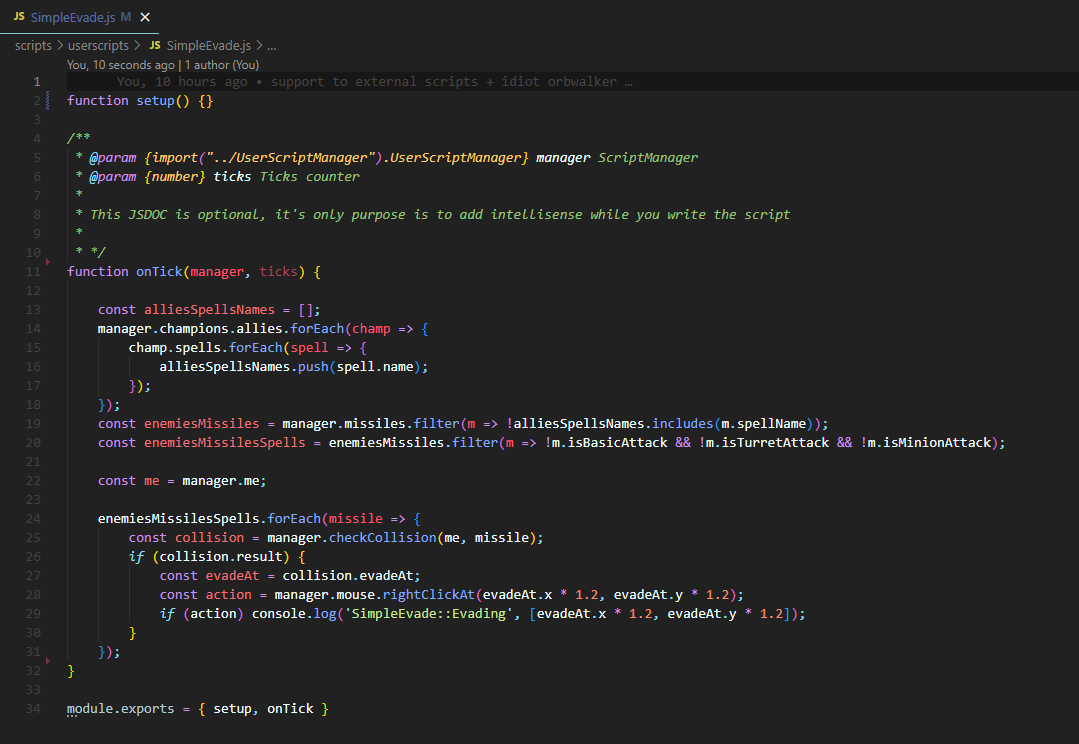
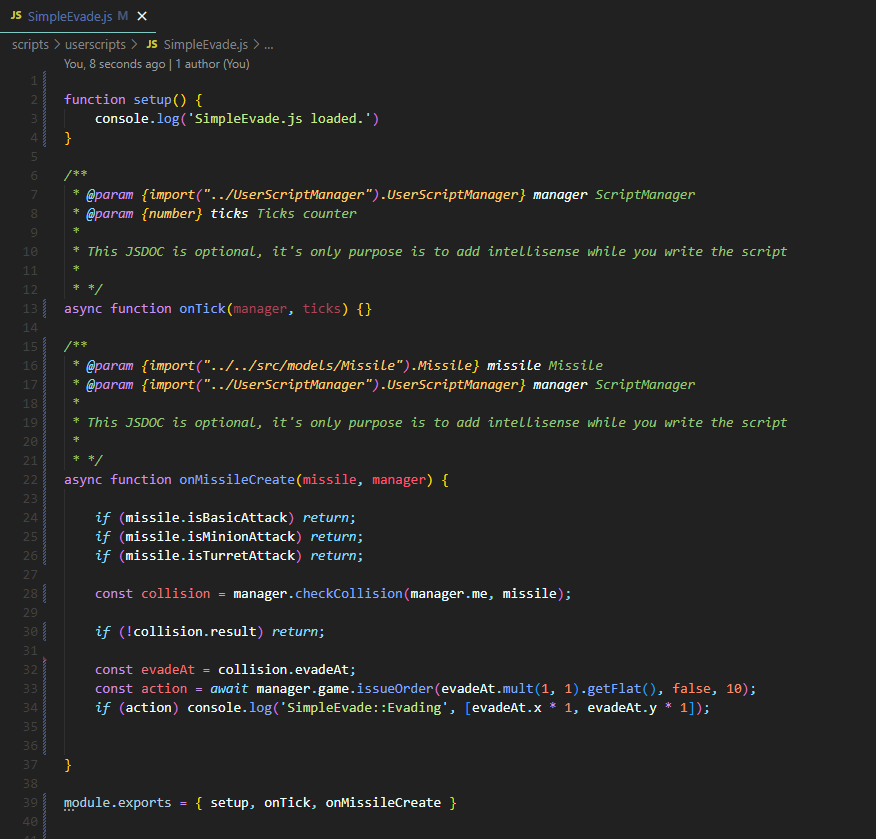
add aiManager, onMissileCreate + update readme

diff --git a/scripts/userscripts/SimpleEvade.js b/scripts/userscripts/SimpleEvade.js
@@ -1,4 +1,7 @@
-function setup() { }
+
+function setup() {
+    console.log('SimpleEvade.js loaded.')
+}
 
 /** 
  * @param {import("../UserScriptManager").UserScriptManager} manager ScriptManager
@@ -7,29 +10,34 @@ function setup() { }
  * This JSDOC is optional, it's only purpose is to add intellisense while you write the script
  * 
  * */
-async function onTick(manager, ticks) {
+async function onTick(manager, ticks) {}
 
-    const alliesSpellsNames = [];
-    manager.champions.allies.forEach(champ => {
-        champ.spells.forEach(spell => {
-            alliesSpellsNames.push(spell.name);
-        });
-    });
-    const enemiesMissiles = manager.missiles.filter(m => !alliesSpellsNames.includes(m.spellName));
-    const enemiesMissilesSpells = enemiesMissiles.filter(m => !m.isBasicAttack && !m.isTurretAttack && !m.isMinionAttack);
+/** 
+ * @param {import("../../src/models/Missile").Missile} missile Missile
+ * @param {import("../UserScriptManager").UserScriptManager} manager ScriptManager
+ * 
+ * This JSDOC is optional, it's only purpose is to add intellisense while you write the script
+ * 
+ * */
+async function onMissileCreate(missile, manager) {
 
-    const me = manager.me;
+    if (missile.isBasicAttack) return;
+    if (missile.isMinionAttack) return;
+    if (missile.isTurretAttack) return;
 
-    const testMissiles = manager.missiles.filter(m => !m.isBasicAttack && !m.isTurretAttack && !m.isMinionAttack);
+    const collision = manager.checkCollision(manager.me, missile);
 
-    testMissiles.forEach(async missile => {
-        const collision = manager.checkCollision(me, missile);
-        if (collision.result) {
-            const evadeAt = collision.evadeAt;
-            const action = await manager.game.issueOrder(evadeAt.mult(1, 1).getFlat(), false, 10);
-            if (action) console.log('SimpleEvade::Evading', [evadeAt.x * 1, evadeAt.y * 1]);
-        }
-    });
+    if (!collision.result) return;
+
+    const evadeAt = collision.evadeAt;
+    const action = await manager.game.issueOrder(evadeAt.mult(1, 1).getFlat(), false, 10);
+    if (action) console.log('SimpleEvade::Evading', [evadeAt.x * 1, evadeAt.y * 1]);
+
+
 }
 
-module.exports = { setup, onTick }
+module.exports = { setup, onTick, onMissileCreate }
+
+
+
+

diff --git a/src/index.ts b/src/index.ts
@@ -14,6 +14,7 @@ import ActionControllerWrapper from './ActionControllerWrapper';
 import * as path from 'path';
 import * as fs from 'fs';
 import * as child from 'child_process';
+import { Missile } from './models/Missile';
 
 if (process.argv[2] == 'nohook') {
     AyayaLeague.reader.setMode("DUMP");
@@ -34,7 +35,7 @@ let screen: Vector2;
 
 const threads: child.ChildProcess[] = [];
 
-const userScripts: { setup: () => any, onTick: (e: UserScriptManager) => any }[] = []
+const userScripts: { setup: () => any, onTick: (e: UserScriptManager) => any, onMissileCreate: (m: Missile, e: UserScriptManager) => any }[] = []
 
 function sendMessageToWin(win: BrowserWindow | WebContents, name: string, data: any) {
     if (win['webContents']) return (win as BrowserWindow).webContents.send(name, JSON.stringify(data));
@@ -137,6 +138,10 @@ async function main() {
 
 const performance = new Performance();
 
+
+
+let persistentMissiles: Missile[] = [];
+
 function loop() {
     performance.start();
 
@@ -156,6 +161,25 @@ function loop() {
     CachedClass.set('gameTime', gameTime);
     CachedClass.set('myTeam', myTeam);
     CachedClass.set('nmeTeam', nmeTeam);
+
+
+    //* Check missiles for onMissileCreate function
+    manager.missiles.forEach(missile => {
+
+        // If missile is inside persistent skip
+        if (persistentMissiles.find(m => m.address == missile.address)) return;
+
+        // Otherwise notify every script for the new missile
+        userScripts.forEach(s => s.onMissileCreate(missile, manager));
+
+        // Add it to persistent
+        persistentMissiles.push(missile);
+    });
+
+    // Remove deleted missiles from persistent
+    persistentMissiles = persistentMissiles.filter(m => manager.missiles.find(e => e.address == m.address));
+
+
 
 
     const finalData = {

diff --git a/src/models/AiManager.ts b/src/models/AiManager.ts
@@ -14,4 +14,16 @@ export class AiManager extends CachedClass {
     get endPath() {
         return this.use('endPath', () => Reader.readProcessMemory(this.address + OFFSET.oAiManagerEndPath, "POS3"));
     }
+    get isDashing() {
+        return this.use('isDashing', () => Reader.readProcessMemory(this.address + OFFSET.oAiManagerIsDashing, "BOOL"));
+    }
+    get isMoving() {
+        return this.use('isMoving', () => Reader.readProcessMemory(this.address + OFFSET.oAiManagerIsMoving, "BOOL"));
+    }
+    get dashSpeed() {
+        return this.use('dashSpeed', () => Reader.readProcessMemory(this.address + OFFSET.oAiManagerDashSpeed, "DWORD"));
+    }
+    // get currentSegment() {
+    //     return this.use('currentSegment', () => Reader.readProcessMemory(this.address + OFFSET.oAiManagerCurrentSegment, "DWORD"));
+    // }
 }

diff --git a/src/consts/Offsets.ts b/src/consts/Offsets.ts
@@ -53,6 +53,10 @@ export const OFFSET = {
     oObjAiManager: 0x2C7C,
     oAiManagerStartPath: 0x1CC,
     oAiManagerEndPath: 0x1D8,
+    oAiManagerIsMoving: 0x1C0,
+    oAiManagerIsDashing: 0x214,
+    oAiManagerCurrentSegment: 0x1C4,
+    oAiManagerDashSpeed: 0x1F8,
 
 
     // --- MISSILES ---

diff --git a/readme.md b/readme.md
@@ -192,6 +192,21 @@ Called at script load. Used to initialize the script.
 
 - *satHitbox* - Used internally to check collisions
 
+
+## AiManager
+
+**properties**
+
+- *startPath*  [`Vector3`](#vector3)  - start position of the player movement
+
+- *endPath*  [`Vector3`](#vector3)  - end position of the player movement
+
+- *isDashing*  `boolean`  - true if the entity is dashing
+
+- *isMoving*  `boolean`  - true if the entity is moving
+
+- *dashSpeed*  `number`  - speed of the dash
+
 ## CollisionResult
 
 **properties**
